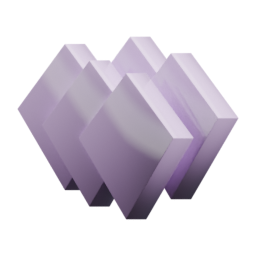
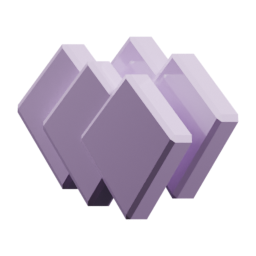
Give the gems a real cut facet, so the gloss has something to do
A clear coat only shows you what it reflects, and a flat slab with nearly
sharp edges reflecting a big soft area lamp returns one even sheen with
nothing moving across it. That is why the stone read flat however far the
roughness came down, and why dropping the base from 0.14 to 0.07 measured
identically - the coat was all you were seeing.

So the fix is geometry. The chamfer goes from 0.004 to 0.022, and to ONE
segment rather than the default two: two rounds the edge off and a
rounded edge smears the reflection, which is the opposite of gloss. One
segment is a flat plane meeting the face at a distinct angle, so it
reflects something distinctly different and reads as a hard bright band
with a sharp corner. That is what a cut stone's gloss actually is, and it
is what the drawn glyph paints along its top-right edge.

diff --git a/src/game/objects/itemSprites.ts b/src/game/objects/itemSprites.ts
@@ -47,7 +47,7 @@ export function itemSpriteKey(typeId: string, tier: number): string {
  * A version in the query string makes the URL new, so every client refetches
  * once and then caches again normally.
  */
-export const ITEM_ART_VERSION = 11;
+export const ITEM_ART_VERSION = 12;
 
 /** Where the renderer writes it, relative to `public/`. */
 export function itemSpritePath(typeId: string, tier: number): string {

diff --git a/tools/blender/render_items.py b/tools/blender/render_items.py
@@ -1685,8 +1685,27 @@ def dress_currency(kind: str, out):
         # outline inside its edge, and on a solid that is a chamfered rim -
         # at 0.010 on a 0.042-thick coin it was a hairline and the edge read
         # as a cut cylinder.
+        # THE GEM GETS THE WIDEST CHAMFER, not the narrowest.
+        #
+        # 0.004 left its edges all but sharp, and a sharp-edged flat slab
+        # under a clear coat has nothing for the gloss to do: a coat only
+        # shows you what it reflects, and a flat face reflecting a big soft
+        # area lamp returns one even sheen with nothing moving across it -
+        # which is why the stone read flat however far the roughness came
+        # down. A real chamfer gives each edge a narrow band angled away
+        # from the face, and those bands catch the lamp as bright lines.
+        # That is what a cut stone's gloss actually is.
         finish(ob, "%s%d" % (kind, tier), material,
-               bevel=0.004 if kind == "currency-gem" else 0.018)
+               bevel=0.022 if kind == "currency-gem" else 0.018)
+        if kind == "currency-gem":
+            # ONE SEGMENT: a flat facet, not a rounded edge. The default two
+            # segments round the chamfer off, and a rounded edge smears the
+            # reflection across it - which is the opposite of gloss. A cut
+            # stone's chamfer is a flat plane meeting the face at a distinct
+            # angle, so it reflects something distinctly different and reads
+            # as a hard bright band. The sharp corner between the two is the
+            # whole effect.
+            ob.modifiers["Bevel"].segments = 1
     return out
 
 
